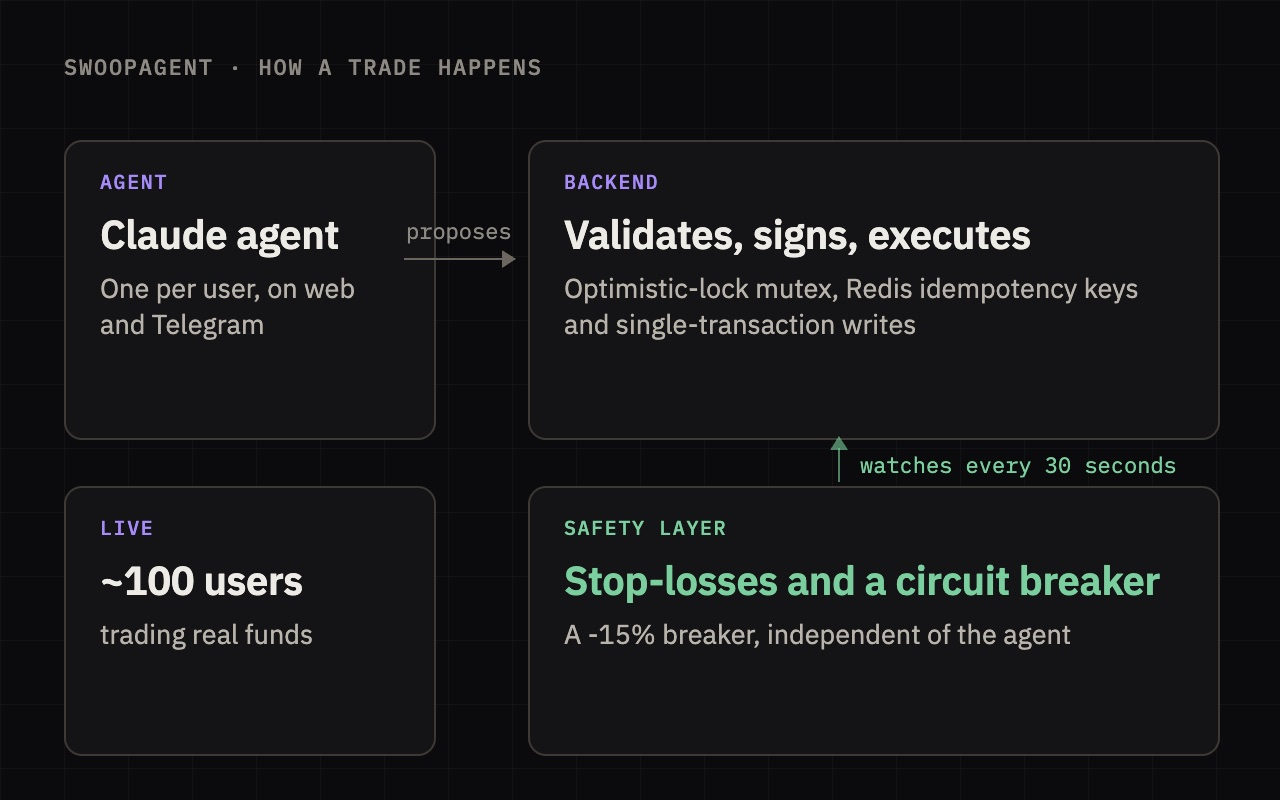
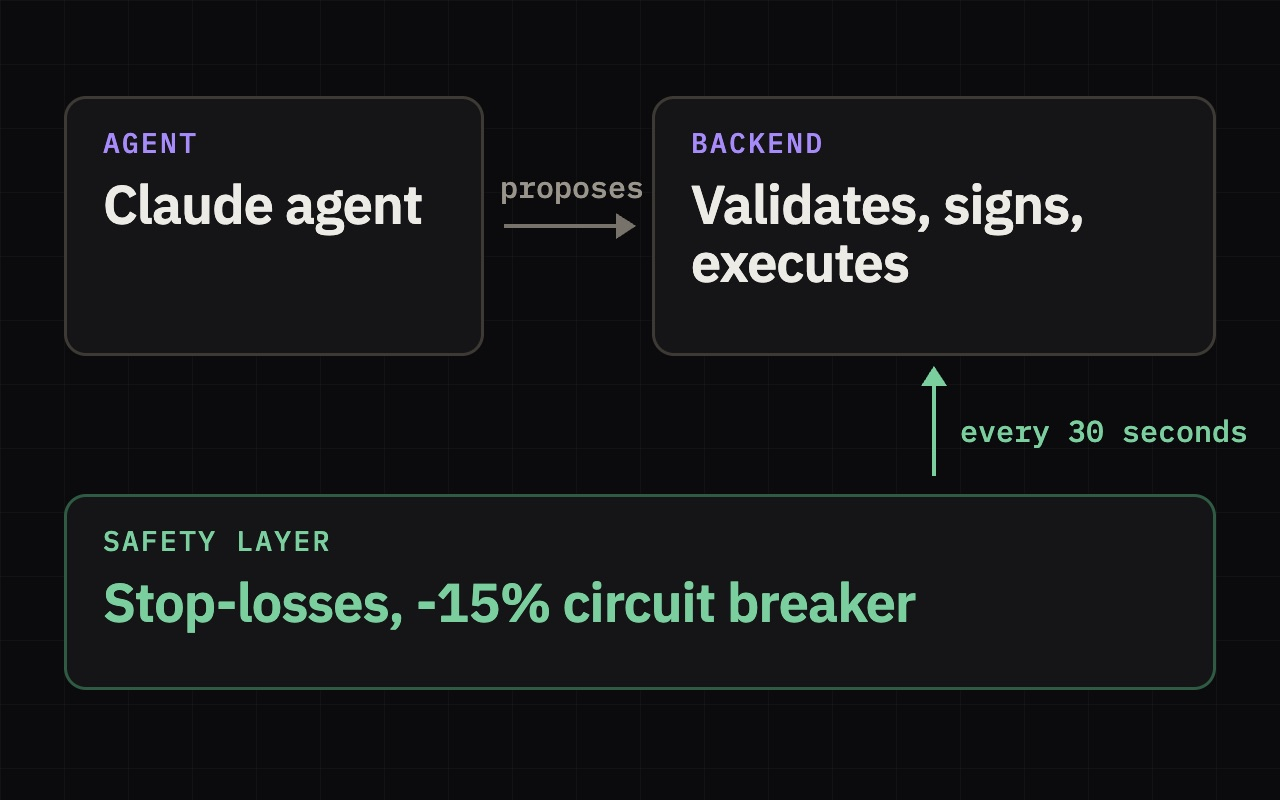
Polish the picture cards: alignment, headings and image sizes
- Card names are headings again, badges stay beside the name, and the
  proof line sits on one baseline across each row.
- The Keynote card is one link; On stage events are underlined at rest.
- Image sizes match the real slots at each width, so phones and
  tablets download smaller files.
- Clearer SwoopAgent diagram, web3terms shown as code, and the
  SheCodeAfrica snapshot without the reCAPTCHA badge.

diff --git a/src/app/globals.css b/src/app/globals.css
@@ -106,7 +106,7 @@
 html {
   -webkit-text-size-adjust: 100%;
   scroll-behavior: smooth;
-  scroll-padding-top: calc(var(--header-h) + 1rem);
+  scroll-padding-block: calc(var(--header-h) + 1rem) 1rem;
   background: var(--bg);
 }
 
@@ -1233,6 +1233,24 @@ main {
   place-items: center;
   color: var(--text-2);
 }
+/* The More on GitHub card: icon and label centred, no empty picture well. */
+.more-tail > .work-card {
+  justify-content: center;
+  align-items: center;
+  gap: 12px;
+}
+.more-tail .work-media--tail {
+  aspect-ratio: auto;
+  width: auto;
+  background: none;
+}
+.more-tail .work-media--tail::after {
+  display: none;
+}
+.more-tail .work-body {
+  flex: none;
+  padding: 0;
+}
 .media-tag {
   position: absolute;
   left: 8px;
@@ -1256,20 +1274,29 @@ main {
     backdrop-filter: none;
   }
 }
+/* The body fills the card, so the proof lines sit on one baseline across a row. */
 .work-body {
   display: grid;
+  flex: 1 0 auto;
+  grid-template-rows: auto auto 1fr;
   align-content: start;
   gap: 4px;
   padding: 14px 10px 10px;
 }
+/* The badge never drops under the name; a long name wraps beside it. */
 .work-head {
   display: flex;
-  flex-wrap: wrap;
-  align-items: center;
+  flex-wrap: nowrap;
+  align-items: flex-start;
   justify-content: space-between;
   gap: 6px 12px;
 }
+.work-head > .badge {
+  flex: none;
+  margin-top: 1px;
+}
 .work-name {
+  min-width: 0;
   font-size: 1rem;
   font-weight: 600;
   line-height: 1.35;
@@ -1283,6 +1310,7 @@ main {
   transition: background-size 280ms var(--ease);
 }
 .work-line {
+  text-wrap: pretty;
   display: -webkit-box;
   -webkit-line-clamp: 2;
   -webkit-box-orient: vertical;
@@ -1295,6 +1323,7 @@ main {
   font-size: 0.9375rem;
 }
 .work-foot {
+  align-self: end;
   display: flex;
   flex-wrap: wrap;
   align-items: baseline;
@@ -1617,6 +1646,13 @@ main {
 .highlight-event a {
   text-decoration-color: var(--line-strong);
 }
+/* The whole Keynote card is the link. */
+.highlight-event a::after {
+  content: "";
+  position: absolute;
+  inset: 0;
+  border-radius: inherit;
+}
 .highlight-event a:hover {
   text-decoration-color: currentColor;
 }
@@ -1646,6 +1682,22 @@ main {
 
 /* On stage: one line per event (year, event, kind and city), as hairline
    rows; a row with a link lights up like the Writing rows. */
+.row-item.stage-row {
+  padding: 0.875rem 0;
+}
+/* Events that link out are underlined at rest, so touch screens see them too. */
+.stage-event .card-link {
+  background: none;
+  text-decoration: underline;
+  text-decoration-thickness: 1px;
+  text-decoration-color: var(--line-strong);
+  text-underline-offset: 0.2em;
+}
+@media (hover: hover) {
+  .row-item:hover .stage-event .card-link {
+    text-decoration-color: currentColor;
+  }
+}
 .stage-row {
   display: grid;
   grid-template-columns: 4.25rem minmax(0, 1fr) auto;
@@ -1771,12 +1823,17 @@ main {
     -webkit-line-clamp: 3;
   }
   .work-card--sm .media-tag {
-    left: 6px;
-    bottom: 6px;
-    max-width: calc(100% - 12px);
-    padding: 3px 6px;
+    left: 4px;
+    bottom: 4px;
+    max-width: calc(100% - 8px);
+    padding: 3px 4px;
     font-size: 0.625rem;
-    letter-spacing: 0.05em;
+    letter-spacing: 0;
+  }
+  .work-card--sm .work-head {
+    flex-direction: column;
+    align-items: flex-start;
+    gap: 6px;
   }
 }
 /* Education and the CV link close the section on one line. */
@@ -2275,7 +2332,8 @@ body:has(.contact-box) .footer-handles {
     animation: none !important;
   }
   .tilt:hover,
-  a.work-card .work-media img {
+  a.work-card .work-media img,
+  .video-thumb img {
     transform: none !important;
   }
 }

diff --git a/src/components/Projects.tsx b/src/components/Projects.tsx
@@ -13,11 +13,23 @@ function Badge({ badge }: { badge: NonNullable<Project["badge"]> }) {
   return <span className={badge === "Live" ? "badge badge--live" : "badge"}>{badge}</span>;
 }
 
-const FEATURE_SIZES = "(max-width: 759px) calc(100vw - 32px), (max-width: 1023px) 60vw, 380px";
-const MORE_SIZES = "(max-width: 759px) 80vw, (max-width: 1023px) 46vw, 380px";
+const LEAD_SIZES =
+  "(max-width: 759px) calc(100vw - 32px), (max-width: 1023px) 55vw, (max-width: 1295px) 29vw, 380px";
+const FEATURE_SIZES =
+  "(max-width: 759px) calc(100vw - 32px), (max-width: 1023px) 44vw, (max-width: 1295px) 29vw, 380px";
+const MORE_SIZES =
+  "(max-width: 759px) 74vw, (max-width: 1023px) 44vw, (max-width: 1295px) 29vw, 380px";
 
 /** A project as a card: its picture, name, a few words and one number; the card opens the project. */
-function ProjectCard({ project, feature }: { project: Project; feature?: boolean }) {
+function ProjectCard({
+  project,
+  feature,
+  lead,
+}: {
+  project: Project;
+  feature?: boolean;
+  lead?: boolean;
+}) {
   const [primary] = publicLinks(project);
   const isPrivate = !primary && project.links.length > 0;
   return (
@@ -25,18 +37,16 @@ function ProjectCard({ project, feature }: { project: Project; feature?: boolean
       <WorkCard
         href={primary?.url}
         image={project.image}
-        alt={
-          isPrivate
-            ? "Diagram: a Claude agent proposes trades; the backend validates, signs and executes them; a safety layer checks every 30 seconds"
-            : undefined
-        }
-        sizes={feature ? FEATURE_SIZES : MORE_SIZES}
+        alt={primary ? undefined : project.imageAlt}
+        sizes={lead ? LEAD_SIZES : feature ? FEATURE_SIZES : MORE_SIZES}
         tag={feature && project.layer ? `[ ${project.layer} ]` : undefined}
         name={project.name}
         badge={project.badge && <Badge badge={project.badge} />}
         line={project.tagline}
         proof={project.proof}
-        srExtra={primary ? `opens ${primary.label}` : undefined}
+        srExtra={
+          primary ? `opens ${primary.label === "Site" ? "the site" : primary.label}` : undefined
+        }
         note={isPrivate ? "Private repo" : undefined}
         size={feature ? "feature" : "default"}
       />
@@ -58,8 +68,8 @@ export function Projects() {
           Agent harness <span aria-hidden="true">·</span> {harness.length}
         </h3>
         <ul className="harness">
-          {harness.map((p) => (
-            <ProjectCard key={p.key} project={p} feature />
+          {harness.map((p, i) => (
+            <ProjectCard key={p.key} project={p} feature lead={i === 0} />
           ))}
         </ul>
         <h3 className="group-label">

diff --git a/src/components/WorkCard.tsx b/src/components/WorkCard.tsx
@@ -62,24 +62,27 @@ export function WorkCard({
           </span>
         )}
       </span>
-      <span className="work-body">
-        <span className="work-head">
-          <span className="work-name">
+      <div className="work-body">
+        <div className="work-head">
+          <h4 className="work-name">
             <span className="work-name-text">{name}</span>
-          </span>
+          </h4>
           {badge}
-        </span>
-        {srExtra && <span className="sr-only">, {srExtra}</span>}
+        </div>
+        {srExtra && <span className="sr-only">, {srExtra}.</span>}
         <span className="work-line">{line}</span>
         {(proof || note) && (
           <span className="work-foot">
             {proof && (
-              <span className={size === "feature" ? "work-proof" : "work-meta"}>{proof}</span>
+              <span className={size === "feature" ? "work-proof" : "work-meta"}>
+                <span className="sr-only">. </span>
+                {proof}
+              </span>
             )}
             {note && <span className="pcard-note">{note}</span>}
           </span>
         )}
-      </span>
+      </div>
     </>
   );
   return href ? (

diff --git a/src/data/projects.ts b/src/data/projects.ts
@@ -32,6 +32,8 @@ export type Project = {
   tagline: string;
   /** The card image in public/images/work/: a screenshot of the site, the repo's own image, its code or (private repos) a diagram. */
   image: string;
+  /** Alt text for the image when the card is not a link (a private repo). */
+  imageAlt?: string;
 };
 
 export const harnessIntro =
@@ -54,6 +56,8 @@ export const projects: Project[] = [
       "Agents propose; the backend validates, signs and executes. Closed a double-sell race with an optimistic-lock mutex, Redis idempotency keys and single-transaction writes. A safety layer checks every open position every 30 seconds and enforces stop-losses and a -15% circuit breaker.",
     tagline: "Claude trading agents behind a safety layer",
     image: "/images/work/swoopagent.jpg",
+    imageAlt:
+      "Diagram: a Claude agent proposes trades; the backend validates, signs and executes them; a safety layer with stop-losses and a -15% circuit breaker checks every 30 seconds",
   },
   {
     key: "midnight-mcp",

diff --git a/src/components/Talks.tsx b/src/components/Talks.tsx
@@ -45,7 +45,7 @@ export function Talks() {
         <VideoDialog />
         <ul className="highlights">
           {highlights.map((t) => (
-            <li key={t.event} className="highlight spot tilt">
+            <li key={t.event} className={t.href ? "highlight spot tilt" : "highlight spot"}>
               <p className="highlight-label">{t.highlight}</p>
               <p className="highlight-event">
                 {t.href ? <a href={t.href}>{eventName(t)}</a> : eventName(t)}

diff --git a/src/components/Experience.tsx b/src/components/Experience.tsx
@@ -45,7 +45,7 @@ export function Experience() {
               <WorkCard
                 href={c.href}
                 image={c.image}
-                sizes="(max-width: 1023px) 46vw, 290px"
+                sizes="(max-width: 1023px) 44vw, (max-width: 1295px) 21vw, 272px"
                 tag={c.role}
                 name={c.org}
                 badge={c.current && <span className="badge badge--live">Now</span>}

diff --git a/src/components/Hero.tsx b/src/components/Hero.tsx
@@ -24,7 +24,7 @@ export function Hero() {
               width={1407}
               height={1600}
               priority
-              sizes="(max-width: 1023px) 133px, 200px"
+              sizes="(max-width: 519px) 26vw, (max-width: 1023px) 133px, 200px"
             />
           </figure>
           <div className="hero-pitch">
